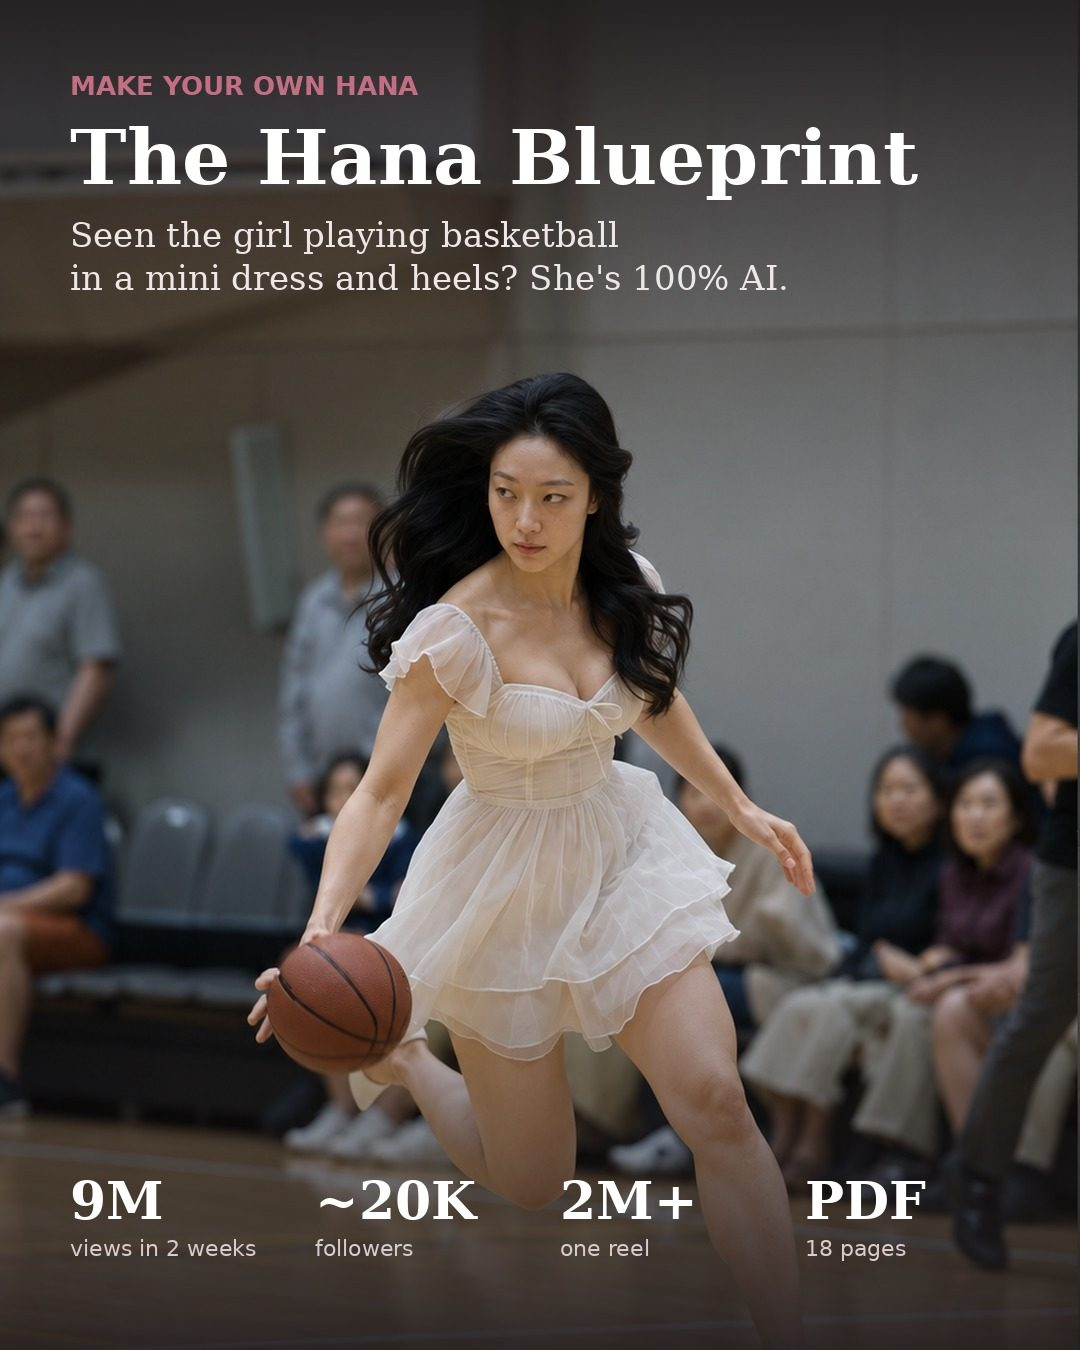
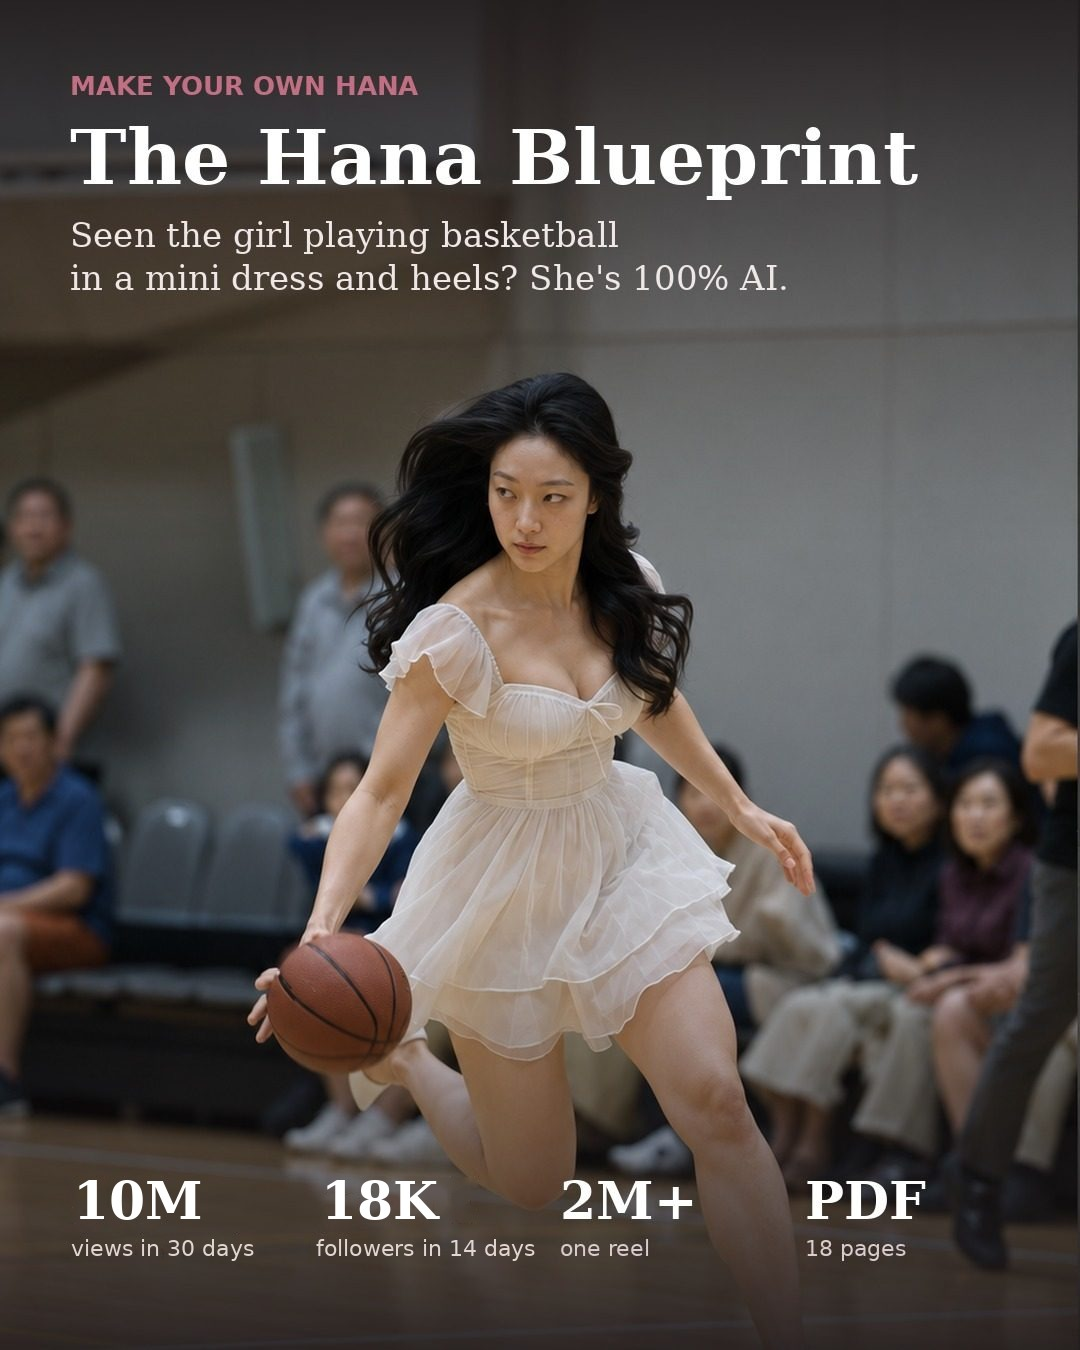
Update stats: 10M views in 30 days, 18K followers in 14 days
Claude-Session: https://claude.ai/code/session_01ABcBu9ZG4bp1URzaMMjuh9

Changed region(s): [[0.3056, 0.8711, 0.4889, 0.9333], [0.0611, 0.8711, 0.2444, 0.9333]]

diff --git a/index.html b/index.html
@@ -6,7 +6,7 @@
 <title>Hana is AI. Here's how she's made · Make Your Own Hana</title>
 <meta name="description" content="Hana (@hana02seoul) is a 100% AI character. See how she is made, for free: the tools, the workflow and a real prompt you can copy.">
 <meta property="og:title" content="Hana is AI. Here's how she's made">
-<meta property="og:description" content="The tools, the workflow and a free prompt behind an AI character with 9M views in 2 weeks.">
+<meta property="og:description" content="The tools, the workflow and a free prompt behind an AI character with 10M views in 30 days.">
 <meta property="og:image" content="https://makeyourownhana.github.io/assets/hana-og-v2.jpg">
 <meta property="og:type" content="website">
 <meta name="theme-color" content="#f4eff5">
@@ -213,8 +213,8 @@ footer b{color:var(--plum)}
   </header>
 
   <div class="proof">
-    <p><strong>9M</strong> views in 2 weeks</p>
-    <p><strong>~20K</strong> followers in under 2 weeks</p>
+    <p><strong>10M</strong> views in 30 days</p>
+    <p><strong>18K</strong> followers in 14 days</p>
     <p><strong>2M+</strong> on a single reel</p>
     <small>Results from one account. Most accounts never go viral. Nothing here promises views or income.</small>
   </div>
@@ -340,7 +340,7 @@ Everyday phone photo look. No skin smoothing, no beauty filter, no studio lighti
     <div class="sec-head"><h2>Before you ask</h2></div>
     <details><summary>Is Hana a real person?</summary><p>No. Hana is fully AI-generated, and her Instagram is labelled as AI.</p></details>
     <details><summary>Do I need to show my face?</summary><p>No. That's the point. The character is the face.</p></details>
-    <details><summary>Will I get 9M views too?</summary><p>Nobody can promise that. Hana's numbers come from one account, and most accounts never go viral. What you get is the method and the mistakes to avoid.</p></details>
+    <details><summary>Will I get 10M views too?</summary><p>Nobody can promise that. Hana's numbers come from one account, and most accounts never go viral. What you get is the method and the mistakes to avoid.</p></details>
     <details><summary>What tools do I need?</summary><p>Higgsfield for photos and videos, and ChatGPT for the first face design. Check current prices yourself before you pay.</p></details>
     <details><summary>How do I get the guide after paying?</summary><p>Checkout runs on Payhip. The PDF is emailed to you automatically right after payment.</p></details>
     <details><summary>How do I contact you?</summary><p>Email <a href="mailto:hana02seoul@gmail.com">hana02seoul@gmail.com</a>.</p></details>
